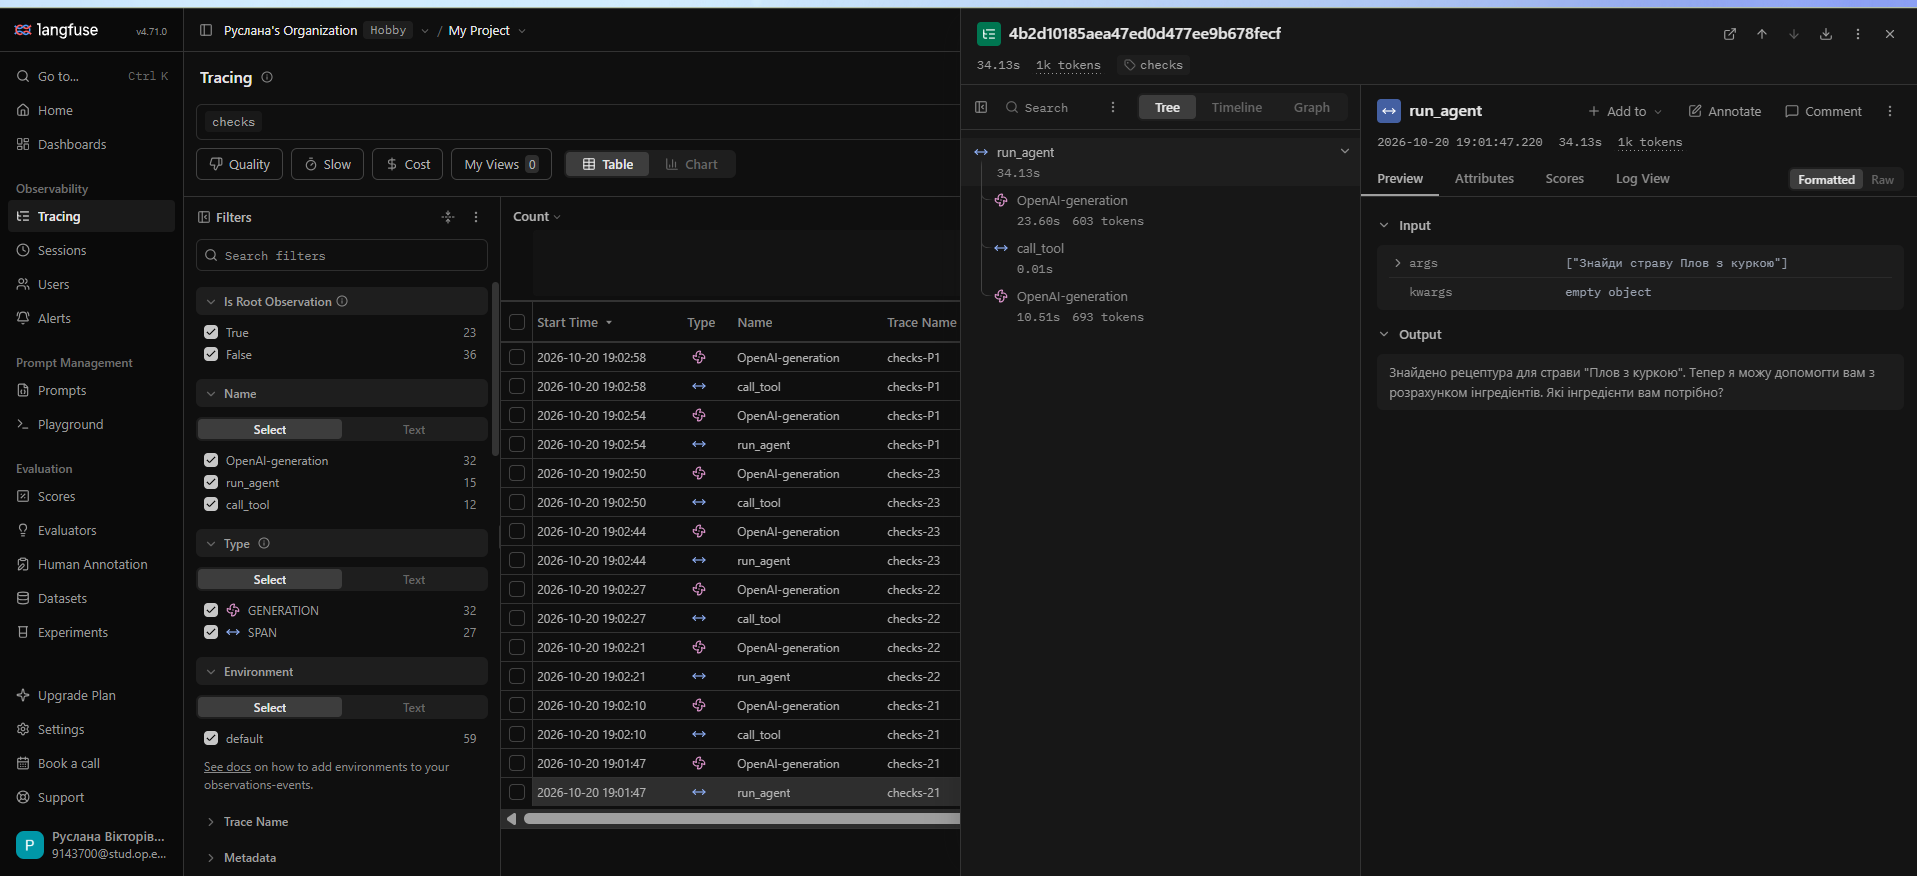
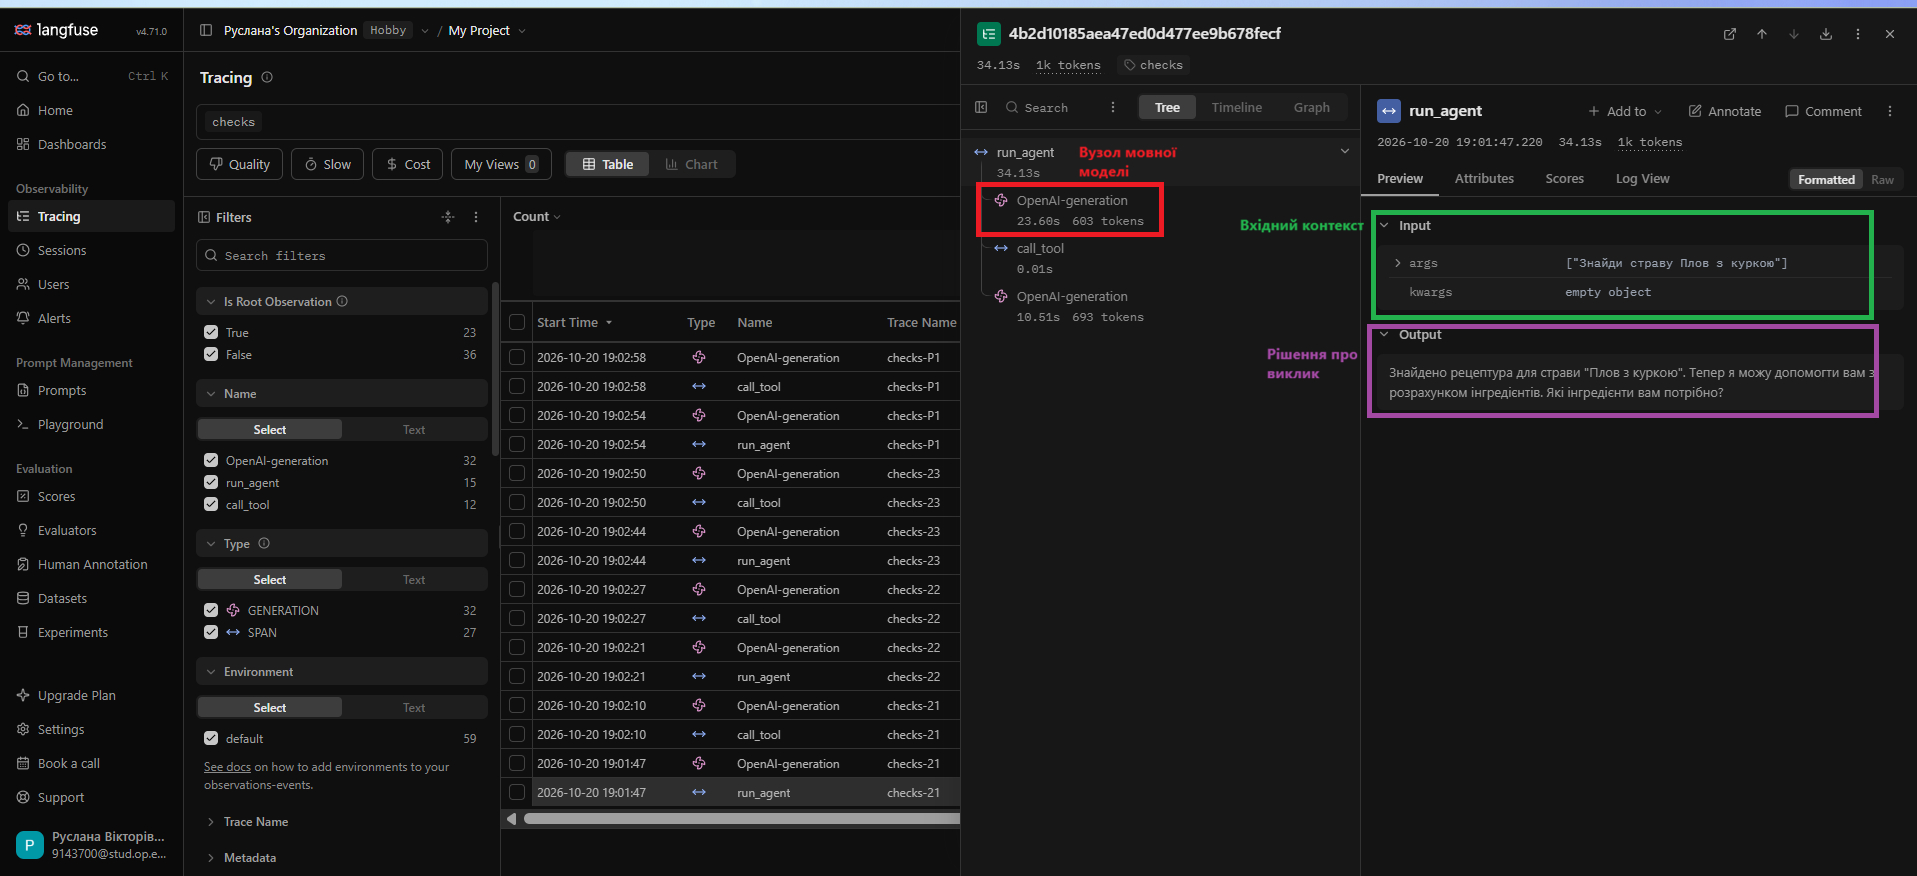
AI-245 Saltykova Ruslana - Lab 3

diff --git a/students/ai-245/saltykova-ruslana/lab3/report.md b/students/ai-245/saltykova-ruslana/lab3/report.md
@@ -151,8 +151,8 @@ ARGS = {
 | Зациклився | 0 | 0 |
 | Не використав результат | 0 | 0 |
 | Вигадав результат | 0 | 0 |
-| Вичерпав ліміт кроків | 0 | 0 |
-| Відмова після ліміту помилок (нове) | 0 | 0 |
+| Вичерпав ліміт кроків | 1 | 0 |
+| Відмова після ліміту помилок (нове) | 1 | 0 |
 
 ---
 
@@ -173,7 +173,7 @@ ARGS = {
 ## 7. Аналіз трас
 
 ### 7.1. Структура події у трасі
-![img_2.png](screenshots/img_2.png)
+![img_1.png](screenshots/img_2.png)
 **Рисунок 7.1** — Перший крок траси у Langfuse: виділені вузол моделі, вхідний контекст та згенерований виклик інструмента.
 
 *Детальний опис складових:*
@@ -181,7 +181,7 @@ ARGS = {
 * масив повідомлень (`messages`), що містить системний промпт кулінарного агента (з інструкціями щодо пошуку рецептів і розрахунку інгредієнтів) та запит користувача.
 * блок відповіді моделі, де вона ухвалила рішення викликати необхідний кулінарний інструмент із чітко сформованими аргументами.
 
-![img_3.png](screenshots/img_3.png)
+![img.png](screenshots/img_3.png)
 **Рисунок 7.2** — Виконання кроку у Langfuse: виділені вузол диспетчера перевірок та вихідний результат виконання .
 
 *Детальний опис складових:*
@@ -239,6 +239,25 @@ ARGS = {
 * **Права панель (Input / Output):** 
   * У секції `Input` зафіксовано виклик кулінарного інструменту `search_recipes` із переданим аргументом `query: "рис"`.
   * У секції `Output` зафіксовано успішний статус перевірки **`ok`** та повернений результат виконання (список знайдених страв: «Плов з куркою, Омлет із сиром»).
+
+## 7.4. Розбір специфічних трас (помилка → виправлення та задача 22)
+
+![img.png](screenshots/error_fix_trace.png)
+**Рисунок 7.5** — Траса «помилка → виправлення» у Langfuse для провокаційного запиту (успішна корекція моделі після отримання результату інструмента).
+
+### 1. Траса «помилка → виправлення» (провокаційний запит)
+* **Яка була помилка:** Агент отримав нестандартне (провокаційне) питання від користувача на кшталт *«Знайди рецепт борщу з морепродуктами і порахуй калорійність на 5 порцій»* і спробував викликати інструмент пошуку неіснуючого продукту.
+* **На якому рівні її зловлено:** На рівні виконання інструмента (`search_recipes`), який повернув результат про те, що за таким запитом нічого не знайдено.
+* **Яке повідомлення отримала модель:** Інструмент повернув чіткий текст: *«За запитом 'борщу з морепродуктами' нічого не знайдено»*.
+* **Що вона змінила:** На наступному кроці (крок 2) модель скоригувала свою поведінку: вона не стала вигадувати дані чи зациклюватися, а сформувала користувачу коректну відповідь про відсутність такого рецепта в базі.
+
+![img.png](screenshots/task22_trace.png)
+**Рисунок 7.7** — Траса виконання Задачі 22 у Langfuse (приклад проблемного прогону з неповним розв'язанням).
+
+### 2. Траса неправильно розв'язаної задачі (Задача 22)
+* **Постановка завдання:** *«Знайди страву з рисом і скажи калорійність рису»*.
+* **Що пішло не так:** Агент успішно знайшов страви, що містять рис (наприклад, *Плов з куркою*, *Омлет із сиром*), проте не зміг витягнути окрему точну калорійність сирого рису на 100 грамів.
+* **Чому жодна перевірка цього не зловила:** Автоматичні перевірки (syntax, schema, meaning) контролюють лише синтаксичну правильність JSON, відповідність Pydantic-схемам та наявність результату в базовому довіднику. Оскільки виклик інструмента був формально правильним, а параметри відповідали схемі, багаторівневий диспетчер зафіксував статус `ok`. Проблема полягала в обмеженості функціоналу інструментів (пошук орієнтований на готові рецепти, а не на детальний розбір сировинних інгредієнтів), що є семантичною неповнотою, а не технічною помилкою агента.
 
 ## 8. Відповіді на питання
 1. **Які поламати зникли або зменшилися після впровадження перевірок? Які лишилися?**
